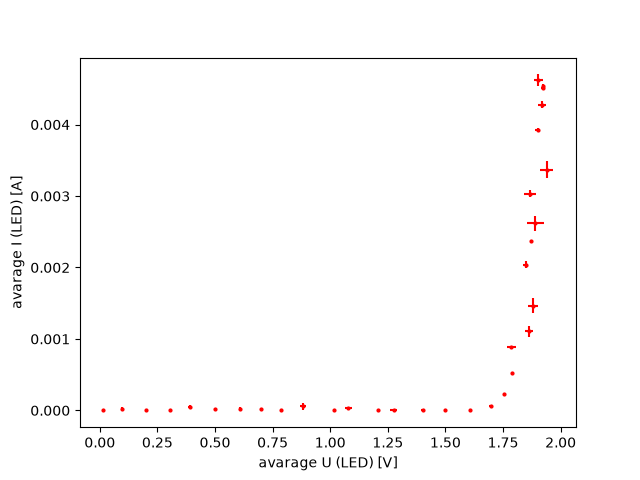
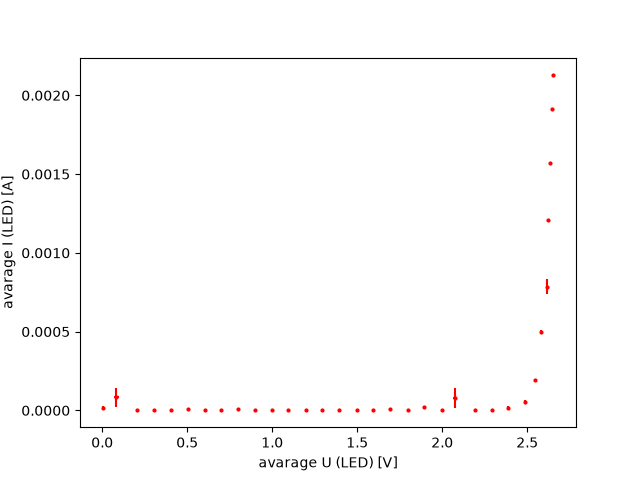
first step command-line interface (19.11)(10:31)

diff --git a/src/pythondaq/cli.py b/src/pythondaq/cli.py
@@ -1,5 +1,3 @@
-
-
 import csv
 
 import click
@@ -13,10 +11,27 @@ from pythondaq.diode_experiment_4 import (
     DiodeExperiment,  # import needed class from diode_experiment
 )
 
-# subcommando list
-# print Work in progress, list devices
-# subcommando scan
-# print Work in progress, scan LED
+# subcommando scan with range in Volt and output CSV
+# start scan with range
+# print current and voltage
+# if output:
+# create csv
 
+@click.group()
+def cmd_group():
+    """a click group of functions providing list devices and scan operation 
+    """
+@cmd_group.command()
+# @click.argument("list")
+# @click.option("-d", "--diode")
+def list():
+    print("Work in progress, list devices")
 
+@cmd_group.command()
+# @click.argument("scan")
+# @click.option("-d", "--diode")
+def scan():
+    print("print Work in progress, scan LED")
 
+if __name__ == "__main__":
+    cmd_group()
